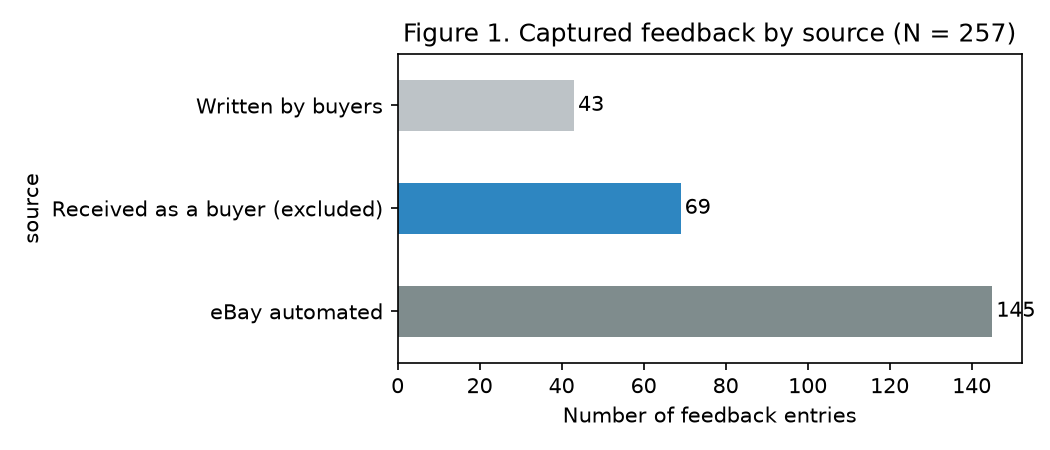
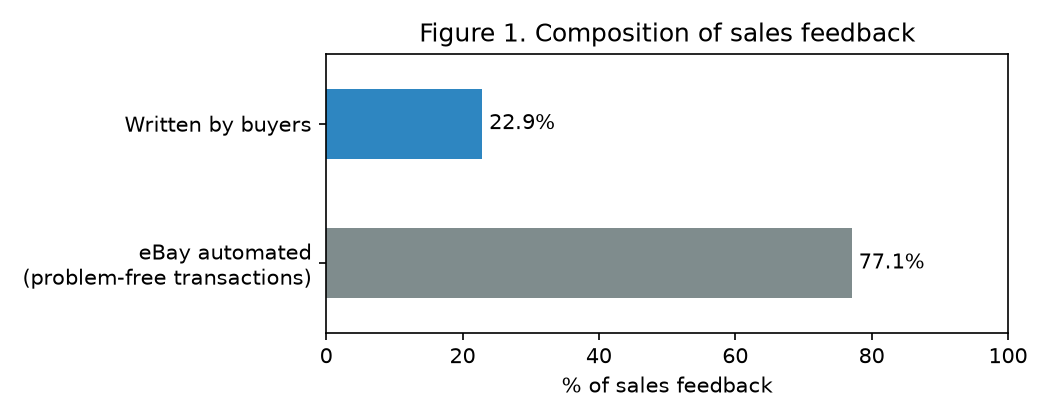
Frame automated feedback as consistency measure, add seller practices section, report percentages

Changed region(s): [[0.0, 0.031, 1.0, 0.9595], [0.3048, 0.8357, 0.3352, 0.8667]]

diff --git a/analysis/analyze.py b/analysis/analyze.py
@@ -75,16 +75,20 @@ pn.to_csv(ROOT / "results/pos_neg_by_bucket_all_sales_feedback.csv")
 F = ROOT / "figures"
 plt.rcParams.update({"figure.dpi": 150, "font.size": 10})
 
-ax = src_counts.plot.barh(color=["#7f8c8d", "#2e86c1", "#bdc3c7"], figsize=(7, 3))
-ax.set_xlabel("Number of feedback entries"); ax.set_title("Figure 1. Captured feedback by source (N = %d)" % len(df))
-for i, v in enumerate(src_counts): ax.text(v + 1, i, str(v), va="center")
+sales = src_counts.drop("Received as a buyer (excluded)")
+sales_pct = (sales / sales.sum() * 100).round(1)
+sales_pct.index = ["eBay automated\n(problem-free transactions)", "Written by buyers"]
+ax = sales_pct.plot.barh(color=["#7f8c8d", "#2e86c1"], figsize=(7, 2.8))
+ax.set_xlim(0, 100); ax.set_xlabel("% of sales feedback")
+ax.set_title("Figure 1. Composition of sales feedback")
+for i, v in enumerate(sales_pct): ax.text(v + 1, i, f"{v:.1f}%", va="center")
 plt.tight_layout(); plt.savefig(F / "fig1_feedback_by_source.png"); plt.close()
 
-tc = theme_counts["comments_mentioning"][::-1]
+tc = theme_counts["pct_of_positive_comments"][::-1]
 ax = tc.plot.barh(color="#2e86c1", figsize=(7, 3.6))
-ax.set_xlabel("Positive buyer comments mentioning theme (n = %d)" % len(pos))
+ax.set_xlim(0, 100); ax.set_xlabel("%% of positive buyer-written comments mentioning theme (n = %d)" % len(pos))
 ax.set_title("Figure 2. What buyers wrote about")
-for i, v in enumerate(tc): ax.text(v + 0.3, i, str(v), va="center")
+for i, v in enumerate(tc): ax.text(v + 1, i, f"{v:.1f}%", va="center")
 plt.tight_layout(); plt.savefig(F / "fig2_theme_frequency.png"); plt.close()
 
 fig, ax = plt.subplots(figsize=(7, 3.6))
@@ -96,9 +100,15 @@ ax.set_ylabel("Mean VADER compound"); ax.set_title("Figure 3. Sentiment of writt
 for i, v in enumerate(by_bucket["mean_vader"]): ax.text(i, v + (0.05 if v >= 0 else -0.1), f"{v:.2f}", ha="center")
 plt.tight_layout(); plt.savefig(F / "fig3_sentiment_by_bucket.png"); plt.close()
 
-ax = pn.plot.bar(stacked=True, color={"positive": "#27ae60", "negative": "#c0392b"}, figsize=(7, 3.6), rot=0)
-ax.set_ylabel("Feedback entries (buyer-written + automated)")
-ax.set_title("Figure 4. Positive vs. negative feedback by eBay time bucket")
+pn_pct = pn.div(pn.sum(axis=1), axis=0) * 100
+pn_pct.to_csv(ROOT / "results/pos_neg_pct_by_bucket_all_sales_feedback.csv")
+ax = pn_pct.plot.bar(stacked=True, color={"positive": "#27ae60", "negative": "#c0392b"}, figsize=(7, 3.6), rot=0)
+ax.set_ylim(0, 105); ax.set_ylabel("% of sales feedback in bucket")
+ax.set_title("Figure 4. Positive vs. negative sales feedback by eBay time bucket")
+for i, v in enumerate(pn_pct["positive"]): ax.text(i, min(v, 100) + 1 if v > 0 else 1, f"{v:.0f}% positive", ha="center", fontsize=8)
+ax.legend(loc="lower right")
+ax.set_xticklabels([f"{k}\n(n = {n})" for k, n in zip(BUCKETS, pn.sum(axis=1))])
+ax.set_xlabel("")
 plt.tight_layout(); plt.savefig(F / "fig4_pos_neg_by_bucket.png"); plt.close()
 
 print(src_counts, "\n", theme_counts, "\n", by_bucket, "\n", pn)

diff --git a/README.md b/README.md
@@ -2,112 +2,136 @@
 
 **Author:** Henry Zhang
 
+---
+
 ## Abstract
 
-Online buyers must trust sellers they never meet. This study examines the public feedback record of a small, family-run eBay resale shop (seller ID *zhashuzhan*, Top Rated Seller, member since June 2015) to ask which aspects of the buying experience customers mention when they choose to write about it. Of 257 captured feedback entries, 43 were comments written by buyers about purchases from the shop. These were coded with a transparent keyword codebook and scored with the VADER sentiment model. Buyers most often mentioned shipping speed (23 of 42 positive comments, 54.8%), the item matching its description (18, 42.9%), and packaging (10, 23.8%). Mean sentiment of positive comments was strongly positive (VADER compound = 0.59). The shop's only negative entry, a non-delivery complaint, falls in eBay's "More than a year ago" bucket; every entry in the past 12 months is positive (100% positive, 190 ratings per eBay). The findings suggest that, for this shop, buyer satisfaction is expressed mainly through *reliability signals*: fast shipping, accurate descriptions, careful packaging, and responsiveness when something goes wrong.
+Online buyers must decide whether to trust sellers they never meet. This study examines the public feedback record of a small, family-run eBay resale shop (seller ID *zhashuzhan*; eBay Top Rated Seller; member since June 2015) to identify which aspects of the buying experience customers mention when they write feedback, and how consistent their satisfaction is over time. Buyer-written comments were coded with a transparent keyword codebook and scored with the VADER sentiment model. Of all captured sales feedback, 99.5% was positive, and 77.1% consisted of eBay-recorded, problem-free transactions. Among buyer-written comments, 97.7% were positive. Buyers most often mentioned shipping speed (54.8% of positive comments), the item matching its description (42.9%), and packaging (23.8%), and the mean sentiment of positive comments was strongly positive (VADER compound = 0.59). The shop's only negative entry, a non-delivery complaint, falls in eBay's "More than a year ago" period; eBay reports 100% positive feedback for the past 12 months. The findings suggest that, for this shop, buyer satisfaction is expressed mainly through reliability signals: fast shipping, accurate descriptions, careful packaging, and responsiveness when problems arise.
 
 ## Research Question
 
-**When buyers of a small online shop write feedback, which aspects of the transaction do they talk about, and how consistent is their satisfaction across time?**
+**When buyers of a small online shop leave feedback, which aspects of the transaction do they discuss, and how consistent is their satisfaction over time?**
 
-The sellers' working view is that the shop maintains consistently strong reviews *because it listens to its customers*. This report treats that as the sellers' practice and interpretation, and asks what the public feedback record shows that is consistent with it. It does not test it as a proven cause.
+The sellers' working view is that the shop maintains consistently strong reviews because it listens to its customers. This report treats that view as the sellers' practice and interpretation and asks what the public feedback record shows that is consistent with it; it does not test it as a proven cause.
 
 ## Background
 
-Buying from a stranger online is a trust problem. Mayer, Davis, and Schoorman (1995) describe trust as a willingness to be vulnerable to another party, based on perceptions of that party's *ability*, *benevolence*, and *integrity*. In online marketplaces, buyers judge these qualities through signals such as reputation scores and the written experiences of previous buyers (Resnick & Zeckhauser, 2002).
+Buying from a stranger online is fundamentally a problem of trust. Mayer, Davis, and Schoorman (1995) define trust as a willingness to be vulnerable to another party based on perceptions of that party's *ability*, *benevolence*, and *integrity*. In online marketplaces, buyers judge these qualities through signals such as reputation scores and the written experiences of previous buyers (Resnick & Zeckhauser, 2002).
 
-Service-quality research gives a vocabulary for what buyers evaluate. The SERVQUAL model (Parasuraman, Zeithaml, & Berry, 1988) identifies five dimensions: *reliability* (delivering what was promised), *responsiveness* (willingness to help promptly), *assurance*, *empathy*, and *tangibles*. For an eBay seller these map naturally onto shipping speed and accurate descriptions (reliability), handling of problems and messages (responsiveness, empathy), and physical packaging (tangibles).
+Service-quality research provides a vocabulary for what buyers evaluate. The SERVQUAL model (Parasuraman, Zeithaml, & Berry, 1988) identifies five dimensions of service quality: *reliability* (delivering what was promised), *responsiveness* (willingness to help promptly), *assurance*, *empathy*, and *tangibles*. For an eBay seller, these map onto shipping speed and accurate descriptions (reliability), handling of problems and messages (responsiveness and empathy), and physical packaging (tangibles).
 
-A known feature of eBay's reputation system is that feedback is overwhelmingly positive (Resnick & Zeckhauser, 2002), so the *content* of written comments can be more informative than the positive/negative count alone. This study therefore focuses on what buyers wrote.
+Feedback on eBay is known to be overwhelmingly positive (Resnick & Zeckhauser, 2002), so the *content* of written comments can be more informative than the share of positive ratings alone. This study therefore analyzes both: the overall consistency of the record and what buyers chose to write.
 
 ## Method
 
-### Data source
+### Data Source
 
-The shop's public eBay feedback page was captured in full, giving 257 of the 259 entries listed (2 entries were not captured). Each entry includes the comment text, rating (positive/neutral/negative), eBay's time bucket (*Past month*, *Past 6 months*, *Past year*, *More than a year ago*), and, for sales, the item and price. eBay shows only these time buckets, not exact dates, so all time comparisons use them. Profile-level figures (positive-feedback percentage, detailed seller ratings) were taken from the same public profile and are saved in `data/profile_summary.json`.
+The shop's public eBay feedback page was captured, yielding 257 of the 259 listed entries (2 entries could not be captured). Each entry includes the comment text, the rating (positive, neutral, or negative), and eBay's time period (*Past month*, *Past 6 months*, *Past year*, or *More than a year ago*); entries for sales also include the item and price. eBay displays only these time periods, not exact dates, so all comparisons over time use them. Profile-level figures (positive-feedback percentage, Detailed Seller Ratings, and Top Rated status) were taken from the same public profile and are saved in `data/profile_summary.json`.
 
 Entries were classified by source:
 
-| Source | n | Used in analysis? |
+| Source | n | Role in analysis |
 |---|---|---|
-| Comments written by buyers of the shop | 43 | Yes, main sample |
-| eBay automated feedback ("Order delivered on time with no issues") | 145 | Counts only (no buyer-written text) |
-| Feedback the account received *as a buyer* from other sellers | 69 | No, excluded (not about this shop's service) |
+| Comments written by buyers of the shop | 43 | Theme coding and sentiment analysis (main sample) |
+| eBay automated feedback | 145 | Consistency measure (problem-free transactions) |
+| Feedback the account received *as a buyer* from other sellers | 69 | Excluded (not about this shop's service) |
 
-![Figure 1](figures/fig1_feedback_by_source.png)
+*Note.* Buyer-written and automated entries together form the shop's **sales feedback** (n = 188). Of the 43 buyer-written comments, 42 were positive and 1 was negative.
 
-Buyer usernames were removed and appear nowhere in this repository.
+**eBay automated feedback.** eBay generates positive feedback automatically on the buyer's behalf for transactions completed without any reported issue; every such entry in this dataset reads "Order delivered on time with no issues." These entries contain no buyer-written opinion, so they were not coded for themes or sentiment. Instead, they were treated as a measure of consistency: each one records an order that was completed smoothly, with no problem reported.
 
-### Theme coding
+Buyer usernames were removed during processing and do not appear anywhere in this repository.
 
-Each buyer comment was coded for seven themes using a keyword codebook (`analysis/codebook.json`). A comment receives a theme if any of that theme's patterns appears; a comment can receive several themes. The themes are shipping speed, communication/service, item as described/quality, packaging, price/value, would buy again/recommend, and general praise. Keyword coding is transparent and reproducible but less nuanced than human coding (see Limitations).
+### Theme Coding
 
-### Sentiment scoring
+Each buyer-written comment was coded for seven themes using a keyword codebook (`analysis/codebook.json`): shipping speed, communication/service, item as described/quality, packaging, price/value, would buy again/recommend, and general praise. A comment received a theme if any of that theme's keywords appeared, and a single comment could receive several themes. Keyword coding is transparent and reproducible but less nuanced than human coding (see Limitations).
 
-Each comment was scored with VADER (Hutto & Gilbert, 2014), a lexicon- and rule-based sentiment model built for short social-media-style text. VADER's *compound* score ranges from −1 (most negative) to +1 (most positive).
+### Sentiment Scoring
 
-### Reproducing the analysis
+Each buyer-written comment was scored with VADER (Hutto & Gilbert, 2014), a lexicon- and rule-based sentiment model designed for short, informal text. VADER's *compound* score ranges from −1 (most negative) to +1 (most positive).
+
+### Reproducing the Analysis
 
 ```
 pip install -r requirements.txt
 python analysis/analyze.py
 ```
 
-Outputs: `data/buyer_comments.csv` (cleaned sample), `results/*.csv`, and `figures/*.png`.
+The script produces the cleaned sample (`data/buyer_comments.csv`), summary tables (`results/`), and all figures (`figures/`).
 
 ## Results
 
-### Overall satisfaction
+### Consistency of Satisfaction
 
-According to the eBay profile, the shop has **100% positive feedback over the past 12 months**, with **0 neutral and 0 negative** ratings in the past 1, 6, and 12 months, and positive counts of 19 (1 month), 127 (6 months), and 190 (12 months). All four Detailed Seller Ratings (accurate description, 33 ratings; reasonable shipping cost, 39; shipping speed, 40; communication, 40) are displayed at 5 stars. The shop holds eBay's Top Rated Seller status.
+eBay reports **100% positive feedback** for the shop over the past 12 months, with **no neutral or negative ratings** in the past 1, 6, or 12 months. All four Detailed Seller Ratings (accurate description, reasonable shipping cost, shipping speed, and communication) are displayed at the maximum of 5 stars, and the shop holds eBay's Top Rated Seller status.
 
-Of the 188 captured sales-feedback entries (buyer-written plus automated), 187 are positive and 1 is negative:
+In the captured sales feedback, **99.5% of entries were positive**. **77.1%** were eBay-recorded, problem-free transactions and 22.9% were comments written by buyers (Figure 1). The large share of automated entries indicates a high volume of orders completed without any reported issue, a direct measure of consistently smooth transactions.
 
-| eBay time bucket | Positive | Negative |
+![Figure 1. Composition of sales feedback](figures/fig1_feedback_by_source.png)
+
+*Figure 1.* Composition of the shop's sales feedback by source (n = 188). Feedback the account received as a buyer (n = 69) is excluded.
+
+**Table 1.** Positive sales feedback by eBay time period
+
+| eBay time period | % positive | n |
 |---|---|---|
-| More than a year ago | 0 | 1 |
-| Past year | 63 | 0 |
-| Past 6 months | 106 | 0 |
-| Past month | 18 | 0 |
+| More than a year ago | 0.0% | 1 |
+| Past year | 100.0% | 63 |
+| Past 6 months | 100.0% | 106 |
+| Past month | 100.0% | 18 |
 
-![Figure 4](figures/fig4_pos_neg_by_bucket.png)
+*Note.* Sales feedback includes buyer-written and eBay automated entries. The single entry in the earliest period is the shop's only negative feedback.
 
-### What buyers wrote about
+![Figure 4. Positive vs. negative sales feedback by eBay time period](figures/fig4_pos_neg_by_bucket.png)
 
-Across the 42 positive buyer-written comments:
+*Figure 4.* Percentage of positive and negative sales feedback in each eBay time period (n per period shown under each bar).
 
-| Theme | Comments | % of positive comments |
-|---|---|---|
-| General praise | 35 | 83.3 |
-| Shipping speed | 23 | 54.8 |
-| Item as described / quality | 18 | 42.9 |
-| Packaging | 10 | 23.8 |
-| Price / value | 7 | 16.7 |
-| Communication / service | 6 | 14.3 |
-| Would buy again / recommend | 3 | 7.1 |
+### What Buyers Wrote About
 
-31 of the 42 positive comments (73.8%) mention at least one concrete reliability or tangibles theme (shipping speed, communication/service, accurate description, or packaging), and 21 (50.0%) mention two or more specific themes besides general praise.
+**Table 2.** Themes in positive buyer-written comments
 
-![Figure 2](figures/fig2_theme_frequency.png)
+| Theme | % of positive comments |
+|---|---|
+| General praise | 83.3% |
+| Shipping speed | 54.8% |
+| Item as described / quality | 42.9% |
+| Packaging | 23.8% |
+| Price / value | 16.7% |
+| Communication / service | 14.3% |
+| Would buy again / recommend | 7.1% |
+
+*Note.* n = 42 positive buyer-written comments. A comment can mention more than one theme, so percentages sum to more than 100%.
+
+Beyond general praise, **73.8%** of positive comments mentioned at least one concrete reliability or service theme (shipping speed, communication/service, accurate description, or packaging), and **50.0%** mentioned two or more specific themes (Figure 2).
+
+![Figure 2. What buyers wrote about](figures/fig2_theme_frequency.png)
+
+*Figure 2.* Percentage of positive buyer-written comments mentioning each theme (n = 42).
 
 ### Sentiment
 
-| eBay time bucket | Written comments | Mean VADER compound |
+**Table 3.** Mean sentiment of buyer-written comments by eBay time period
+
+| eBay time period | Mean VADER compound | n |
 |---|---|---|
-| More than a year ago | 1 | 0.273 |
-| Past year | 24 | 0.593 |
-| Past 6 months | 16 | 0.604 |
-| Past month | 2 | 0.442 |
+| More than a year ago | 0.273 | 1 |
+| Past year | 0.593 | 24 |
+| Past 6 months | 0.604 | 16 |
+| Past month | 0.442 | 2 |
 
-Mean compound across all 42 positive comments was 0.590. Sentiment was stable across the two buckets with meaningful sample sizes (Past year, 0.593; Past 6 months, 0.604). The "Past month" (n = 2) and "More than a year ago" (n = 1) means are based on too few comments to interpret.
+*Note.* VADER compound scores range from −1 (most negative) to +1 (most positive).
 
-Notably, VADER scored the single negative comment as mildly *positive* (+0.273): its text ("I never received the item on top of being charged…") contains no strongly negative words, so the model missed a clearly negative experience. This is a useful reminder that automated sentiment tools can misread complaints that are stated factually.
+The mean compound score across all positive buyer-written comments was 0.590. Sentiment was stable across the two periods with substantial samples (Past year, 0.593; Past 6 months, 0.604). The means for "Past month" and "More than a year ago" are based on too few comments to interpret.
 
-![Figure 3](figures/fig3_sentiment_by_bucket.png)
+VADER scored the single negative comment as mildly *positive* (+0.273). Its text ("I never received the item on top of being charged…") states the problem factually and contains no strongly negative words, so the model missed a clearly negative experience. This illustrates that automated sentiment tools can misread complaints that are expressed without emotional language.
 
-### Representative comments
+![Figure 3. Sentiment of buyer-written comments by eBay time period](figures/fig3_sentiment_by_bucket.png)
 
-Quoted verbatim (typos preserved); time bucket in brackets.
+*Figure 3.* Mean VADER compound score of buyer-written comments in each eBay time period (n per period shown under each bar).
+
+### Representative Comments
+
+Comments are quoted verbatim, with original spelling and punctuation; the eBay time period is shown in brackets.
 
 1. *"Seller did everything right. My purchase arrived very quickly in 3 days! It however, did not work/power-on and a Return was quickly accepted by the seller."* [Past 6 months]
 2. *"An overall pleasant experience with the seller, good customer communication, thank you."* (excerpt) [Past 6 months]
@@ -117,39 +141,46 @@ Quoted verbatim (typos preserved); time bucket in brackets.
 
 ## Discussion
 
-**Consistency.** The clearest finding is consistency: every rating in the past 12 months is positive, and the sentiment of written comments is stable across the time buckets with enough data to compare. For a small family-run shop selling a wide range of consumer goods, sustaining that record across roughly 190 rated transactions in a year is itself the main result.
+**Consistency.** The clearest finding is consistency. Every sales-feedback entry in the three most recent eBay periods is positive, eBay reports 100% positive feedback over the past 12 months, and more than three-quarters of all sales feedback (77.1%) records a transaction completed with no reported issue. The sentiment of buyer-written comments is also stable across the periods with enough data to compare. For a small family-run shop selling a wide range of consumer goods, sustaining this record is the study's central result.
 
-**Reliability is what buyers notice.** When buyers bothered to write something, they most often described *reliability*: the item arrived fast, matched its description, and was well packed. In SERVQUAL terms, reliability and tangibles dominate. This fits the trust framework of Mayer et al. (1995): delivering exactly what was promised is direct evidence of a seller's ability and integrity.
+**Reliability is what buyers notice.** When buyers chose to write feedback, they most often described reliability: the item arrived quickly (54.8%), matched its description (42.9%), and was well packaged (23.8%). In SERVQUAL terms, reliability and tangibles dominate. This fits the trust framework of Mayer et al. (1995), in which delivering exactly what was promised is direct evidence of a seller's ability and integrity.
 
-**Responsiveness when something goes wrong.** Communication was mentioned less often (6 comments), but it carries special weight. The most telling comment (quote 1) describes a product that *did not work*, yet the buyer still left positive feedback, crediting the seller's quick acceptance of a return. That is the service-recovery pattern: how a seller responds to a problem can matter as much as the problem itself. Communication is also one of the two highest-volume Detailed Seller Ratings (40 ratings), displayed at 5 stars.
+**Responsiveness when something goes wrong.** Communication and service were mentioned less often (14.3%), but these comments carry particular weight. The most telling comment (Quote 1) describes a product that did not work, yet the buyer still left positive feedback, crediting the seller's quick acceptance of a return. This reflects the service-recovery pattern, in which a seller's response to a problem can matter as much as the problem itself. Communication is also displayed at the maximum 5-star Detailed Seller Rating.
 
-**The single complaint.** The shop's only negative entry is a non-delivery complaint about an electric blanket, recorded "More than a year ago." Every entry since is positive. Because eBay's buckets are coarse and there is only one negative entry, this report does not claim the shop *changed because of* that complaint. It is consistent with the sellers' account that they listen to customer feedback, and the sellers' own description of what they changed is recorded below.
+**The single complaint.** The shop's only negative entry is a non-delivery complaint recorded "More than a year ago." Every sales-feedback entry in the later periods is positive. Because eBay's time periods are coarse and there is only one negative entry, this report does not claim that the shop's record changed *because of* that complaint. The pattern is, however, consistent with the sellers' account of how they responded to it, described in the next section.
 
-**Interpretation of "we listen to our customers."** The sellers attribute their record to listening to customers. The data here supports the *outcome* side of that account (consistent satisfaction, top communication ratings, buyers praising responsiveness) but, as an observational record, cannot prove the cause. The sellers' practices are described in their own words in the next section so readers can judge the connection.
+**Interpreting "we listen to our customers."** The sellers attribute their record to listening to customers. The feedback data supports the *outcome* side of this account (consistent satisfaction, maximum communication ratings, and buyers praising responsiveness), but as an observational record it cannot establish the cause.
 
-## What we changed (in Henry's words)
+## Seller Practices Informed by Customer Experience
 
-> **[PLACEHOLDER — to be written by Henry.]**
-> Describe, in your own words, specific things you and your father actually do or changed in response to buyer feedback (for example, how you handle messages, returns, packaging, or listing descriptions), and roughly when. Only include things that really happened.
+*This section is based on the sellers' own account of their practices. It describes what the sellers report doing and was not independently verified from the feedback data.*
+
+The shop's only negative feedback concerned an order that the buyer reported never receiving. The sellers report two practices aimed at ensuring that every order reaches its buyer reliably:
+
+1. **Higher-quality shipping labels.** Henry and his father invested in a higher-quality printer to produce clearer shipping labels. This practice is intended to reduce delivery problems such as the non-delivery complaint described above.
+2. **Continuous order and shipping monitoring.** Following the missed-delivery complaint, Henry's father began using a personal AI assistant (Grok Bot) to keep order and shipping notifications on track at all times, so that potential issues are identified and addressed promptly.
+
+These practices reflect the sellers' approach of treating customer experience, including a single complaint, as information to act on. The subsequent feedback record is consistent with this approach: every sales-feedback entry captured in the three most recent eBay periods is positive, and eBay reports 100% positive feedback over the past 12 months. Because eBay provides only coarse time periods and this analysis is observational, however, it cannot establish that these practices caused the subsequent record.
 
 ## Limitations
 
-- **Small sample of written comments.** Only 43 entries contain buyer-written text; 145 are eBay automated positives with no content to analyze.
-- **Automated feedback.** eBay automatically leaves positive feedback for orders delivered on time with no issues, which inflates positive counts and contains no buyer opinion.
-- **Coarse time information.** eBay shows only four time buckets, not dates, so change over time cannot be measured precisely, and two buckets contain only 1–2 comments.
-- **Positive skew.** eBay feedback is known to be overwhelmingly positive (Resnick & Zeckhauser, 2002); dissatisfied buyers may leave no feedback at all.
-- **Incomplete capture.** 2 of the 259 listed feedback entries were not captured, and captured counts are slightly lower than eBay's headline totals.
-- **Keyword coding.** Themes were coded with keywords, not by trained human raters, so some comments may be miscoded (for example, "fast" in "fast transaction", or one comment coded as communication that says communication "was not necessary"). No inter-rater reliability was computed.
-- **Sentiment model limits.** VADER misread the one negative comment as positive, showing it can miss factual complaints.
-- **Correlational.** This is an observational analysis. It cannot establish that any seller practice caused the ratings.
+- **Small sample of written comments.** Only 22.9% of sales feedback (n = 43) contains buyer-written text that could be coded and scored.
+- **Nature of automated feedback.** eBay automated entries indicate that a transaction was completed without a reported issue; they do not capture a buyer's own evaluation. They were therefore used only as a measure of consistency, not as buyer opinion.
+- **Coarse time information.** eBay provides only four time periods, not dates, so change over time cannot be measured precisely, and two periods contain only one or two written comments.
+- **Positive skew.** eBay feedback is known to be overwhelmingly positive (Resnick & Zeckhauser, 2002), and dissatisfied buyers may choose not to leave feedback at all.
+- **Incomplete capture.** 2 of the 259 listed feedback entries could not be captured, and captured counts are slightly lower than eBay's headline totals.
+- **Keyword coding.** Themes were coded by keyword rather than by trained human raters, so some comments may be miscoded (for example, "fast" in "fast transaction," or a comment coded as communication that states communication "was not necessary"). No inter-rater reliability was computed.
+- **Sentiment model limits.** VADER scored the one negative comment as positive, showing that it can miss complaints stated in neutral language.
+- **Seller-reported practices.** The practices described in *Seller Practices Informed by Customer Experience* are based on the sellers' account and were not independently verified.
+- **Correlational design.** This is an observational analysis; it cannot establish that any seller practice caused the ratings.
 
 ## Repository Structure
 
 | Path | Contents |
 |---|---|
-| `data/raw_feedback_public.json` | Captured public feedback, usernames removed |
+| `data/raw_feedback_public.json` | Captured public feedback, with usernames removed |
 | `data/profile_summary.json` | Public profile-level figures |
-| `data/buyer_comments.csv` | Cleaned sample: 43 buyer-written comments with themes and sentiment |
+| `data/buyer_comments.csv` | Cleaned sample of buyer-written comments, with themes and sentiment scores |
 | `analysis/codebook.json` | Keyword codebook for theme coding |
 | `analysis/analyze.py` | Full analysis script |
 | `results/` | Summary tables (CSV) |
